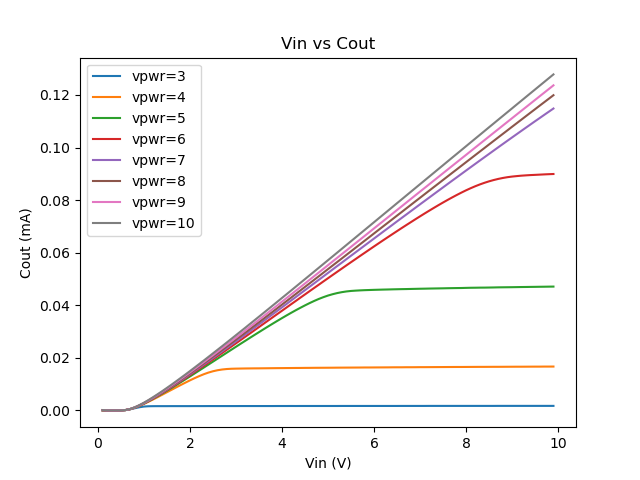
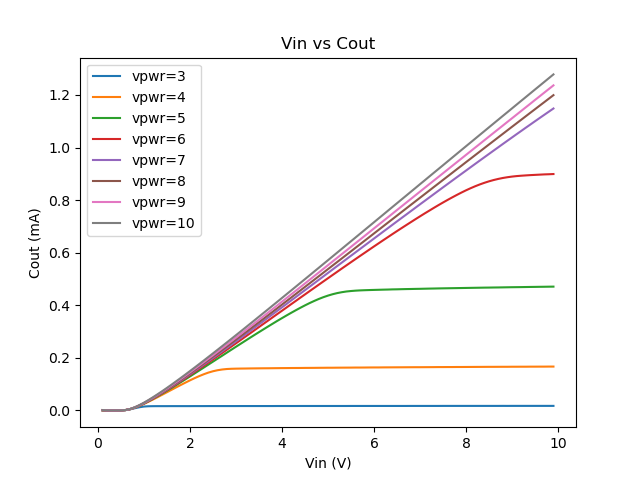
update

diff --git a/Python/obcmCharacterization.py b/Python/obcmCharacterization.py
@@ -100,14 +100,14 @@ dmmData.to_csv('~/miniconda3/envs/testequ/RTSeval/Python/Data/obcmCharacterizati
 smu._write(value='smub.source.output = smub.OUTPUT_OFF')
 bk.outputOn(False, bkPS)     #turn the powersupply on
 
-plt.plot(dmmData.VoltIn, dmmData.CurrOut001, label = "vpwr=3")
-plt.plot(dmmData.VoltIn, dmmData.CurrOut002, label = "vpwr=4")
-plt.plot(dmmData.VoltIn, dmmData.CurrOut003, label = "vpwr=5")
-plt.plot(dmmData.VoltIn, dmmData.CurrOut004, label = "vpwr=6")
-plt.plot(dmmData.VoltIn, dmmData.CurrOut005, label = "vpwr=7")
-plt.plot(dmmData.VoltIn, dmmData.CurrOut006, label = "vpwr=8")
-plt.plot(dmmData.VoltIn, dmmData.CurrOut007, label = "vpwr=9")
-plt.plot(dmmData.VoltIn, dmmData.CurrOut008, label = "vpwr=10")
+plt.plot(dmmData.VoltIn, dmmData.CurrOut001, label = "vgs=3")
+plt.plot(dmmData.VoltIn, dmmData.CurrOut002, label = "vgs=4")
+plt.plot(dmmData.VoltIn, dmmData.CurrOut003, label = "vgs=5")
+plt.plot(dmmData.VoltIn, dmmData.CurrOut004, label = "vgs=6")
+plt.plot(dmmData.VoltIn, dmmData.CurrOut005, label = "vgs=7")
+plt.plot(dmmData.VoltIn, dmmData.CurrOut006, label = "vgs=8")
+plt.plot(dmmData.VoltIn, dmmData.CurrOut007, label = "vgs=9")
+plt.plot(dmmData.VoltIn, dmmData.CurrOut008, label = "vgs=10")
 # plt.plot(dmmData.VoltIn, dmmData.CurrOut009, label = "vpwr=8")
 # plt.plot(dmmData.VoltIn, dmmData.CurrOut010, label = "vpwr=9")
 # plt.plot(dmmData.VoltIn, dmmData.CurrOut011, label = "vpwr=10")
